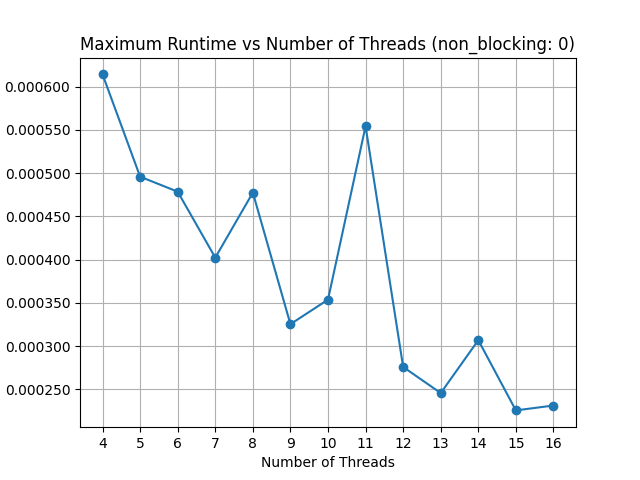
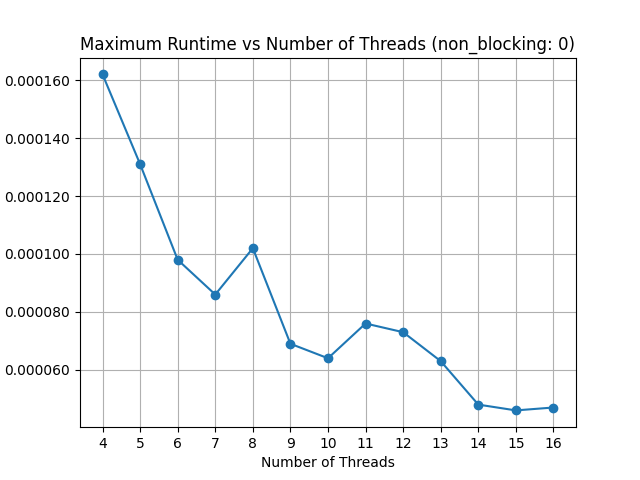
Update Lab2 code

diff --git a/Lab2/table.py b/Lab2/table.py
@@ -3,7 +3,7 @@ import re
 import matplotlib.pyplot as plt
 from matplotlib.ticker import FormatStrFormatter
 
-def compile_and_run(nb_threads, non_blocking, measure,num_runs=20):
+def compile_and_run(nb_threads, non_blocking, measure,num_runs=1):
     
     max_times = []
 
